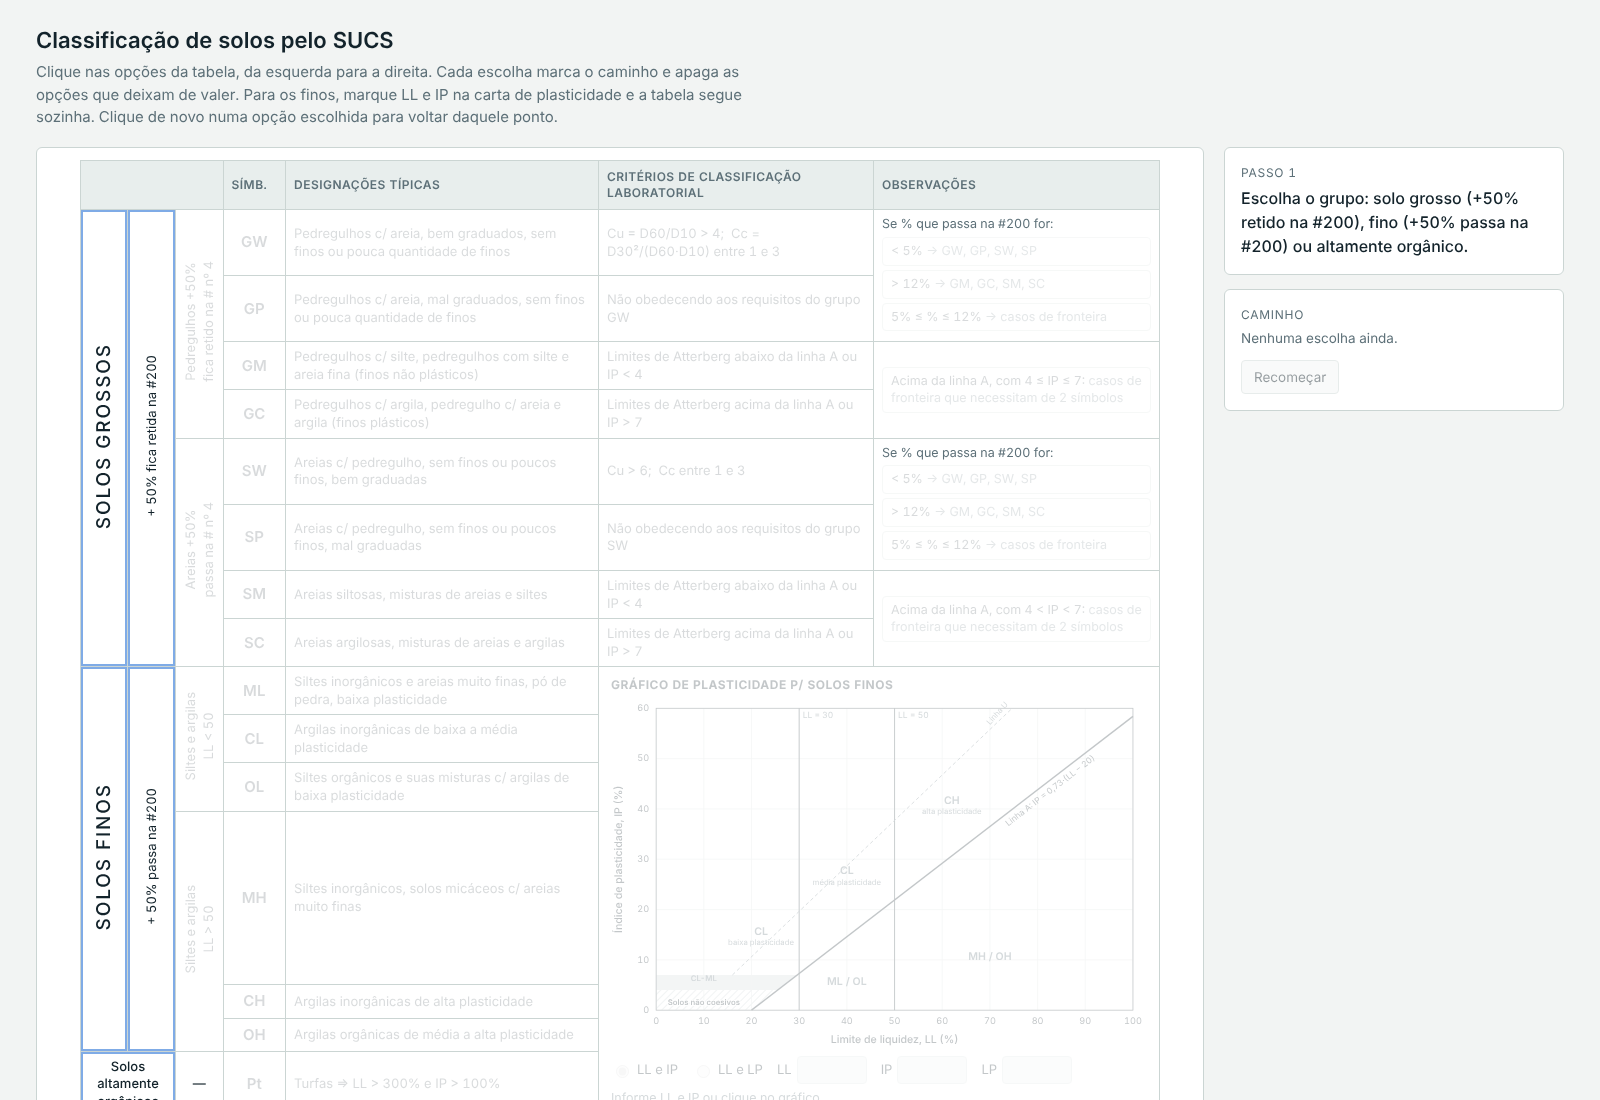
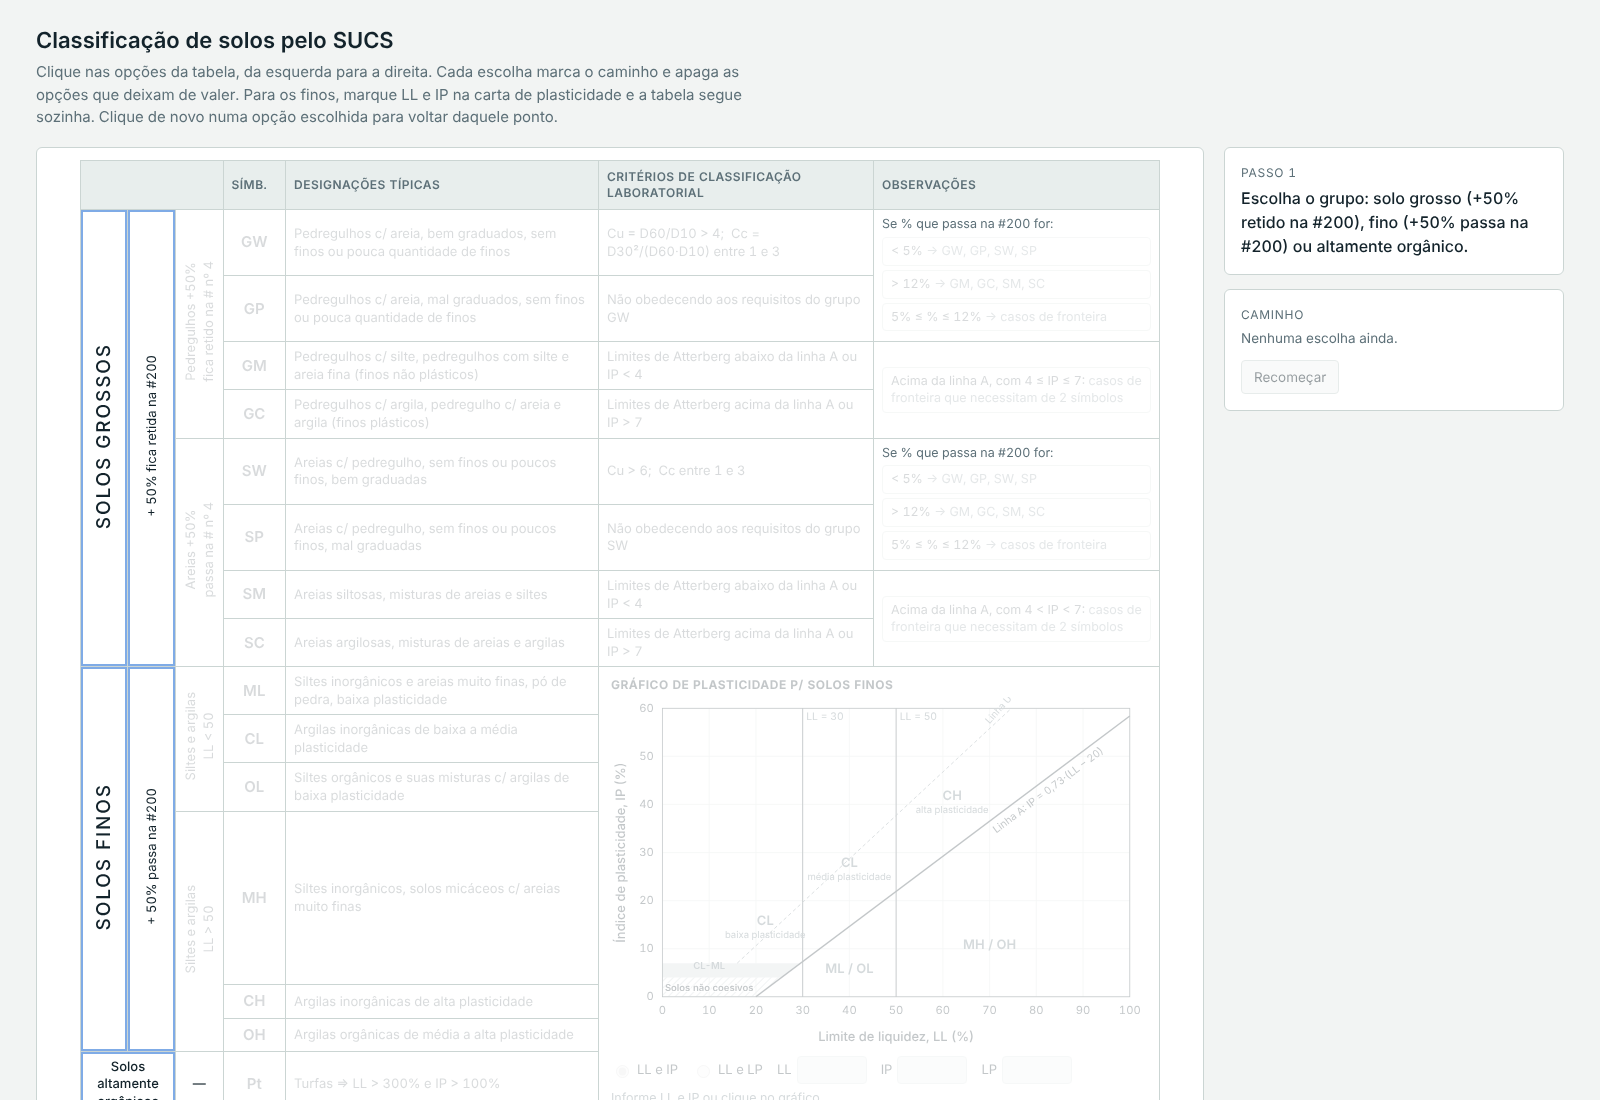
feat: modo passo a passo no celular e rótulos da carta legíveis em telas estreitas
Claude-Session: https://claude.ai/code/session_016NX9F89Pu4r2U4XAzsXL86

diff --git a/index.html b/index.html
@@ -85,6 +85,34 @@ ol.trail li{margin:3px 0}
 .actions{display:flex;gap:8px;margin-top:12px}
 #chip{position:fixed;right:16px;bottom:calc(16px + env(safe-area-inset-bottom,0px));z-index:10;display:none;font:inherit;font-weight:600;padding:9px 14px;border-radius:999px;border:0;background:var(--accent);color:#fff;box-shadow:0 4px 14px rgba(0,0,0,.2);cursor:pointer}
 #path .ln{fill:none;stroke:var(--accent);stroke-width:3;stroke-linecap:round;stroke-linejoin:round;opacity:.7}
+#mob{display:none}
+body.narrow #mob{display:block;order:-2}
+body.narrow .tw,body.narrow #stepcard{display:none}
+body.narrow #result.empty{display:none}
+body.narrow .side{position:static}
+.mtrail{list-style:none;margin:0 0 6px;padding:0}
+.mtrail li{position:relative;padding-left:34px;margin:0 0 8px}
+.mtrail li:before{content:"";position:absolute;left:11px;top:24px;bottom:-10px;width:2px;background:var(--accent);opacity:.45}
+.mtrail li:last-child:before{display:none}
+#mq.q,#mopts.q{position:relative;padding-left:34px}
+#mq.q:before{content:attr(data-k);position:absolute;left:0;top:0;width:24px;height:24px;border-radius:50%;color:var(--accent);box-shadow:inset 0 0 0 2px var(--accent);font-size:12px;font-weight:600;line-height:24px;text-align:center}
+.lead .ln{display:none}
+body.narrow .lead .lw{display:none}
+body.narrow .lead .ln{display:inline}
+.mtrail .num{position:absolute;left:0;top:7px;width:24px;height:24px;border-radius:50%;background:var(--accent);color:#fff;font-size:12px;font-weight:600;line-height:24px;text-align:center}
+.mt{display:block;width:100%;text-align:left;font:inherit;color:var(--ink);background:color-mix(in srgb,var(--accent) 10%,var(--panel));border:1px solid color-mix(in srgb,var(--accent) 45%,transparent);border-radius:6px;padding:6px 10px}
+.mt b{display:block;font-size:14.5px}
+.mt small{display:block;color:var(--mute);font-size:12.5px;line-height:1.35}
+#mq{margin:0 0 8px}
+.mopts{display:flex;flex-direction:column;gap:8px}
+.mo{display:block;width:100%;text-align:left;font:inherit;color:var(--ink);background:var(--panel);border:1px solid var(--line);border-radius:6px;padding:10px 12px;cursor:pointer}
+.mo b{display:block;font-size:15px}
+.mo small{display:block;color:var(--mute);font-size:13px;line-height:1.35}
+.mo.alt{opacity:1}
+#mchart{margin-top:12px}
+#mchart:empty,#mchart.hide{display:none}
+#mcalc .calc{margin-top:12px}
+.mdone{display:inline-block;margin-top:4px;color:var(--accent)}
 #path .dot circle{fill:var(--accent);stroke:var(--panel);stroke-width:2.5}
 #path .dot text{fill:#fff;font:600 11px "IBM Plex Sans",system-ui,sans-serif;text-anchor:middle;dominant-baseline:central}
 #path .ring{fill:none;stroke:var(--accent);stroke-width:2.5}
@@ -95,8 +123,16 @@ ol.trail li{margin:3px 0}
 <body>
 <main>
 <h1>Classificação de solos pelo SUCS</h1>
-<p class="lead">Clique nas opções da tabela, da esquerda para a direita. Cada escolha marca o caminho e apaga as opções que deixam de valer. Para os finos, marque LL e IP na carta de plasticidade e a tabela segue sozinha. Clique de novo numa opção escolhida para voltar daquele ponto.</p>
+<p class="lead"><span class="ln">Responda um passo por vez. Para os finos, marque LL e IP na carta de plasticidade. Toque numa etapa já escolhida para voltar dela.</span><span class="lw">Clique nas opções da tabela, da esquerda para a direita. Cada escolha marca o caminho e apaga as opções que deixam de valer. Para os finos, marque LL e IP na carta de plasticidade e a tabela segue sozinha. Clique de novo numa opção escolhida para voltar daquele ponto.</span></p>
 <div class="layout">
+  <div class="card" id="mob">
+    <p class="step" id="mstep"></p>
+    <ol class="mtrail" id="mtrail"></ol>
+    <p class="prompt" id="mq"></p>
+    <div class="mopts" id="mopts"></div>
+    <div id="mcalc"></div>
+    <div id="mchart"></div>
+  </div>
   <div class="card tw"><div class="stage" id="stage">
     <table id="tab" aria-label="Tabela de classificação SUCS"></table>
     <svg id="path" aria-hidden="true"></svg>
@@ -177,37 +213,43 @@ document.querySelectorAll("[data-a]").forEach(e=>{e.removeAttribute("data-a");e.
 document.querySelectorAll("td[data-n]").forEach(e=>{if(!e.hasAttribute("tabindex")){e.tabIndex=-1}});
 
 /* ---------- carta de plasticidade (do app Carta de Plasticidade de Casagrande) ---------- */
-$("chartcell").innerHTML=`<div class="ct"><b>Gráfico de plasticidade p/ solos finos</b><small id="ctx"></small></div>
+$("chartcell").innerHTML=`<div id="chartbox"><div class="ct"><b>Gráfico de plasticidade p/ solos finos</b><small id="ctx"></small></div>
 <svg id="chart" viewBox="0 0 760 500" role="img" aria-label="Carta de plasticidade"></svg>
 <div class="ci"><span><label><input type="radio" name="mode" value="ip" checked> LL e IP</label></span><span><label><input type="radio" name="mode" value="lp"> LL e LP</label></span>
 <label>LL <input id="ll" type="number" min="0" max="120" step="0.1"></label>
 <label>IP <input id="ip" type="number" min="0" max="80" step="0.1"></label>
 <label>LP <input id="lp" type="number" min="0" max="120" step="0.1" disabled></label></div>
-<p class="ro" id="ro">Informe LL e IP ou clique no gráfico.</p>`;
-const W=760,H=500,m={l:64,r:20,t:16,b:56},XM=100,YM=60;
+<p class="ro" id="ro">Informe LL e IP ou clique no gráfico.</p></div>`;
+const W=760,H=500,XM=100,YM=60;
+let K=1,m={l:64,r:20,t:16,b:56};
 const X=v=>m.l+v/XM*(W-m.l-m.r), Y=v=>H-m.b-v/YM*(H-m.t-m.b);
 const A=ll=>0.73*(ll-20), U=ll=>0.9*(ll-8);
 const svg=$("chart");
-(function base(){
+function base(){
+  m={l:24+40*K,r:20*K,t:16,b:K>1?26+40*K:56};
   let s=`<defs><pattern id="hz" width="7" height="7" patternUnits="userSpaceOnUse" patternTransform="rotate(45)"><line x1="0" y1="0" x2="0" y2="7" stroke="var(--hatch)" stroke-width="2"/></pattern></defs>`;
   s+=`<polygon points="${X(0)},${Y(0)} ${X(20)},${Y(0)} ${X(25.48)},${Y(4)} ${X(0)},${Y(4)}" fill="url(#hz)" opacity=".55"/>`;
   s+=`<polygon points="${X(0)},${Y(4)} ${X(25.48)},${Y(4)} ${X(29.59)},${Y(7)} ${X(0)},${Y(7)}" fill="var(--hatch)" opacity=".35"/>`;
-  for(let v=0;v<=XM;v+=10){s+=`<line x1="${X(v)}" x2="${X(v)}" y1="${Y(0)}" y2="${Y(YM)}" stroke="var(--grid)"/><text x="${X(v)}" y="${Y(0)+20}" text-anchor="middle" font-size="13">${v}</text>`}
-  for(let v=0;v<=YM;v+=10){s+=`<line y1="${Y(v)}" y2="${Y(v)}" x1="${X(0)}" x2="${X(XM)}" stroke="var(--grid)"/><text x="${X(0)-10}" y="${Y(v)+4}" text-anchor="end" font-size="13">${v}</text>`}
+  for(let v=0;v<=XM;v+=10){s+=`<line x1="${X(v)}" x2="${X(v)}" y1="${Y(0)}" y2="${Y(YM)}" stroke="var(--grid)"/><text x="${X(v)}" y="${Y(0)+20*K}" text-anchor="middle" font-size="${13*K}">${v}</text>`}
+  for(let v=0;v<=YM;v+=10){s+=`<line y1="${Y(v)}" y2="${Y(v)}" x1="${X(0)}" x2="${X(XM)}" stroke="var(--grid)"/><text x="${X(0)-10*K}" y="${Y(v)+4*K}" text-anchor="end" font-size="${13*K}">${v}</text>`}
   s+=`<rect x="${X(0)}" y="${Y(YM)}" width="${X(XM)-X(0)}" height="${Y(0)-Y(YM)}" fill="none" stroke="var(--ink)"/>`;
-  for(const v of [30,50])s+=`<line x1="${X(v)}" x2="${X(v)}" y1="${Y(0)}" y2="${Y(YM)}" stroke="var(--ink)" stroke-width="1.2"/><text x="${X(v)+5}" y="${Y(YM)+14}" font-size="12" style="fill:var(--mute)">LL = ${v}</text>`;
+  for(const v of [30,50])s+=`<line x1="${X(v)}" x2="${X(v)}" y1="${Y(0)}" y2="${Y(YM)}" stroke="var(--ink)" stroke-width="1.2"/><text x="${X(v)+5}" y="${Y(YM)+14*K}" font-size="${12*K}" style="fill:var(--mute)">LL = ${v}</text>`;
   s+=`<line x1="${X(20)}" y1="${Y(0)}" x2="${X(XM)}" y2="${Y(A(XM))}" stroke="var(--ink)" stroke-width="2"/>`;
   s+=`<line x1="${X(16)}" y1="${Y(7)}" x2="${X(8+YM/.9)}" y2="${Y(YM)}" stroke="var(--mute)" stroke-width="1.2" stroke-dasharray="5 4"/>`;
-  s+=`<text transform="translate(${X(83)},${Y(A(83))+20}) rotate(${-Math.atan(0.73*(Y(0)-Y(YM))/YM/((X(XM)-X(0))/XM))*180/Math.PI})" font-size="12" text-anchor="middle">Linha A: IP = 0,73·(LL − 20)</text>`;
-  s+=`<text x="${X(70)}" y="${Y(U(70))-6}" font-size="11" style="fill:var(--mute)" transform="rotate(-48 ${X(70)} ${Y(U(70))-6})">Linha U</text>`;
+  s+=`<text transform="translate(${X(83)},${Y(A(83))+20*K}) rotate(${-Math.atan(0.73*(Y(0)-Y(YM))/YM/((X(XM)-X(0))/XM))*180/Math.PI})" font-size="${12*K}" text-anchor="middle">Linha A: IP = 0,73·(LL − 20)</text>`;
+  s+=`<text x="${X(70)}" y="${Y(U(70))-6}" font-size="${11*K}" style="fill:var(--mute)" transform="rotate(-48 ${X(70)} ${Y(U(70))-6})">Linha U</text>`;
   const z=[[22,15,"CL","baixa plasticidade"],[40,27,"CL","média plasticidade"],[62,41,"CH","alta plasticidade"],[40,5,"ML / OL",""],[70,10,"MH / OH",""],[10,5.7,"CL-ML",""]];
-  for(const [l,i,t,d] of z)s+=`<text x="${X(l)}" y="${Y(i)}" font-size="${t==="CL-ML"?11:15}" font-weight="600" text-anchor="middle" style="fill:var(--mute)">${t}</text>`+(d?`<text x="${X(l)}" y="${Y(i)+15}" font-size="11" text-anchor="middle" style="fill:var(--mute)">${d}</text>`:"");
-  s+=`<text x="${X(10)}" y="${Y(1.1)}" font-size="11" font-weight="600" text-anchor="middle" style="paint-order:stroke;stroke:var(--panel);stroke-width:3px;fill:var(--ink)">Solos não coesivos</text>`;
-  s+=`<text x="${(X(0)+X(XM))/2}" y="${H-10}" text-anchor="middle" font-size="15" font-weight="500">Limite de liquidez, LL (%)</text>`;
-  s+=`<text transform="translate(16 ${(Y(0)+Y(YM))/2}) rotate(-90)" text-anchor="middle" font-size="15" font-weight="500">Índice de plasticidade, IP (%)</text>`;
-  s+=`<g id="pt" style="display:none"><line id="gx" stroke="var(--accent)" stroke-dasharray="4 4"/><line id="gy" stroke="var(--accent)" stroke-dasharray="4 4"/><circle id="ptc" r="8" fill="var(--accent)" stroke="var(--panel)" stroke-width="2.5"/></g>`;
+  for(const [l,i,t,d] of z)s+=`<text x="${X(l)}" y="${Y(i)}" font-size="${(t==="CL-ML"?11:15)*K}" font-weight="600" text-anchor="middle" style="fill:var(--mute)">${t}</text>`+(d?`<text x="${X(l)}" y="${Y(i)+15*K}" font-size="${11*K}" text-anchor="middle" style="fill:var(--mute)">${d}</text>`:"");
+  s+=`<text x="${X(10)}" y="${Y(1.1)}" font-size="${11*Math.min(K,1.35)}" font-weight="600" text-anchor="middle" style="paint-order:stroke;stroke:var(--panel);stroke-width:3px;fill:var(--ink)">Solos não coesivos</text>`;
+  s+=`<text x="${(X(0)+X(XM))/2}" y="${H-10*K}" text-anchor="middle" font-size="${15*K}" font-weight="500">Limite de liquidez, LL (%)</text>`;
+  s+=`<text transform="translate(${16*K} ${(Y(0)+Y(YM))/2}) rotate(-90)" text-anchor="middle" font-size="${15*K}" font-weight="500">Índice de plasticidade, IP (%)</text>`;
+  s+=`<g id="pt" style="display:none"><line id="gx" stroke="var(--accent)" stroke-dasharray="4 4"/><line id="gy" stroke="var(--accent)" stroke-dasharray="4 4"/><circle id="ptc" r="${8*Math.sqrt(K)}" fill="var(--accent)" stroke="var(--panel)" stroke-width="2.5"/></g>`;
   svg.innerHTML=s;
-})();
+}
+/* em telas estreitas o SVG encolhe: K aumenta as fontes para continuarem legíveis */
+function scale(){const w=svg.clientWidth||W;return Math.min(1.8,Math.max(1,(9.5*W)/(11*w)));}
+K=scale();base();
+new ResizeObserver(()=>{const k=scale();if(Math.abs(k-K)>.05){K=k;base();drawPoint();render();}}).observe(svg);
 function chartSym(LL,IP){
   const a=A(LL),acima=IP>=a;
   if(acima&&IP>=4&&IP<=7)return "CL-ML";
@@ -380,8 +422,46 @@ const PROMPT={
   fn:"Escolha o símbolo na coluna Símb.",
   pt:"Confirme a turfa clicando em Pt."
 };
+function lab(k){
+  const {f,v,c}=parse(k);
+  switch(f){
+    case"g":return{G:["Solo grosso","+50% fica retido na peneira nº 200"],F:["Solo fino","+50% passa na peneira nº 200"],Pt:["Solo altamente orgânico","Turfas"]}[v];
+    case"fr":return v==="G"?["Pedregulho","+50% da fração grossa fica retida na nº 4"]:["Areia","+50% da fração grossa passa na nº 4"];
+    case"fi":return{lt5:["< 5% passa na #200","GW, GP, SW, SP"],gt12:["> 12% passa na #200","GM, GC, SM, SC"],512:["5% a 12% passa na #200","Caso de fronteira: símbolo duplo"]}[v];
+    case"gr":return v==="W"?[`${c}W · bem graduad${c==="G"?"o":"a"}`,`Cu ≥ ${c==="G"?4:6} e 1 ≤ Cc ≤ 3`]:[`${c}P · mal graduad${c==="G"?"o":"a"}`,`Não atende aos requisitos do grupo ${c}W`];
+    case"at":return{M:[`${c}M · finos siltosos`,"Atterberg abaixo da linha A ou IP < 4"],C:[`${c}C · finos argilosos`,"Atterberg acima da linha A ou IP > 7"],CM:[`${c}C-${c}M · fronteira`,"Acima da linha A, com 4 ≤ IP ≤ 7"]}[v];
+    case"ll":return v==="L"?["LL < 50","Siltes e argilas de baixa plasticidade"]:["LL > 50","Siltes e argilas de alta plasticidade"];
+    case"fn":return v==="CM"?["CL-ML","Faixa hachurada da carta (4 ≤ IP ≤ 7)"]:[v+c,DES[v+c]];
+    case"pt":return["Pt · turfa","LL > 300% e IP > 100%"];
+  }
+  return[k,""];
+}
+const MQ={g:"Qual é o grupo do solo?",fr:"Pedregulho ou areia?",fi:"Quanto passa na peneira nº 200?",gr:"A graduação atende aos critérios de Cu e Cc?",
+  at:"Como são os finos? Escolha pelo critério de Atterberg ou marque LL e IP na carta.",ll:"Marque LL e IP na carta, ou escolha a faixa de LL.",fn:"Qual é o símbolo?",pt:"Confirme a turfa."};
+function renderMob(cur,r){
+  if(!document.body.classList.contains("narrow"))return;
+  const q=seq(),li=[];let n=0;
+  const item=(k,[b,sm])=>`<li><span class="num">${++n}</span><button class="mt" data-n="${k}"><b>${b}</b><small>${sm}</small></button></li>`;
+  const pt=()=>`<li><span class="num">${++n}</span><div class="mt"><b>Carta: LL = ${fmt(s.pLL)}, IP = ${fmt(s.pIP)}</b><small>Ponto ${s.pIP>=A(s.pLL)?"acima":"abaixo"} da linha A</small></div></li>`;
+  for(const f of q){
+    const v=s[f];if(v==null)break;
+    if(f==="at"&&s.atc)li.push(pt());
+    const c=ctxOf(f),k=`${f}:${v}${c?"@"+c:""}`;li.push(item(k,lab(k)));
+    if(f==="ll"&&s.cht)li.push(pt());
+  }
+  $("mtrail").innerHTML=li.join("");
+  $("mstep").textContent=cur?`Passo ${q.indexOf(cur)+1}`:"Classificação concluída";
+  let pr=cur?MQ[cur]:"";
+  if(cur==="fn"&&s.fnAllow)pr=`Ponto ${s.pIP>=A(s.pLL)?"na região de IP < 4":"abaixo da linha A"}: inorgânico (${s.ll==="L"?"ML":"MH"}) ou orgânico (${s.ll==="L"?"OL":"OH"})? Razão LL seco em estufa / LL natural < 0,75 indica solo orgânico.`;
+  if(!cur&&r)pr=`Resultado: <b style="color:var(--accent)">${r.sym}</b> · <a href="#result" class="mdone">ver detalhes ↓</a>`;
+  $("mq").innerHTML=pr;
+  $("mq").dataset.k=cur?n+1:"";$("mq").classList.toggle("q",!!cur);$("mopts").classList.toggle("q",!!cur);
+  $("mopts").innerHTML=cur?options(cur).map(k=>{const[b,sm]=lab(k);return`<button class="mo" data-n="${k}"><b>${b}</b><small>${sm}</small></button>`}).join(""):"";
+  $("mchart").classList.toggle("hide",!chartOn());
+}
 function render(){
   const cur=current(),q=seq();
+  renderMob(cur,result());
   document.querySelectorAll("[data-n]").forEach(el=>{
     const k=el.dataset.n,sel=isSel(k),ok=clickable(k),{f}=parse(k);
     el.classList.toggle("sel",sel);
@@ -422,6 +502,7 @@ function render(){
   if(r&&/^O/.test(s.fn||""))h+=`<div class="note">Confirme o caráter orgânico pela razão LL seco em estufa / LL natural (&lt; 0,75), cor escura e odor.</div>`;
   h+=`<div class="actions"><button class="btn" id="rst" ${s.g?"":"disabled"}>Recomeçar</button></div>`;
   $("result").innerHTML=h;
+  $("result").classList.toggle("empty",!r);
   $("rst").onclick=()=>{reset();render();};
   $("chip").textContent=r?`Resultado: ${r.sym} ↑`:"";
   chipVis();
@@ -435,7 +516,7 @@ function calcCu(){
   if(!(d10>0&&d30>0&&d60>0)){$("cuout").textContent="Opcional: informe os diâmetros para calcular Cu e Cc.";$("cuapply").disabled=true;return;}
   const Cu=d60/d10,Cc=d30*d30/(d60*d10),lim=s.fr==="S"?6:4,w=Cu>=lim&&Cc>=1&&Cc<=3;
   s.cuPending={Cu,Cc,w};
-  $("cuout").innerHTML=`Cu = <b>${fmt(Cu)}</b> (${Cu>=lim?"≥":"<"} ${lim}) · Cc = <b>${fmt(Cc)}</b> (${Cc>=1&&Cc<=3?"entre 1 e 3":"fora de 1 a 3"})<br>${w?"Bem graduado":"Mal graduado"} → ${s.fr}${w?"W":"P"}`;
+  $("cuout").innerHTML=`Cu = <b>${fmt(Cu)}</b> (${Cu>=lim?"≥":"<"} ${lim}) · Cc = <b>${fmt(Cc)}</b> (${Cc>=1&&Cc<=3?"entre 1 e 3":"fora de 1 a 3"})<br>${w?"Bem":"Mal"} graduad${s.fr==="G"?"o":"a"} → ${s.fr}${w?"W":"P"}`;
   $("cuapply").disabled=false;
 }
 ["d10","d30","d60"].forEach(id=>$(id).addEventListener("input",calcCu));
@@ -489,7 +570,16 @@ new IntersectionObserver(es=>{sideVisible=es[0].isIntersecting;chipVis();}).obse
 function chipVis(){$("chip").style.display=result()&&!sideVisible?"block":"none";}
 $("chip").onclick=()=>$("result").scrollIntoView({behavior:"smooth",block:"center"});
 
-render();
+const NARROW=matchMedia("(max-width:700px)");
+function placeMode(){
+  const n=NARROW.matches;
+  document.body.classList.toggle("narrow",n);
+  (n?$("mchart"):$("chartcell")).appendChild($("chartbox"));
+  (n?$("mcalc"):$("stepcard")).appendChild($("calc"));
+  render();
+}
+NARROW.addEventListener("change",placeMode);
+placeMode();
 </script>
 </body>
 </html>

diff --git a/README.md b/README.md
@@ -55,9 +55,9 @@ Também é possível clicar direto em LL < 50 / LL > 50 e no símbolo, sem usar 
 
 ### No celular
 
-A tabela rola na horizontal e o resultado fica no topo. Um atalho no canto da tela leva ao resultado quando ele sai de vista.
+Em telas estreitas a tabela vira um passo a passo: uma pergunta por vez, com as escolhas anteriores numa lista numerada (toque numa delas para voltar dali). A carta de plasticidade aparece em largura total no passo dos finos.
 
-<img src="docs/screenshots/06-mobile-azul.png" alt="Versão para celular" width="320">
+<img src="docs/screenshots/06-celular.png" alt="Versão para celular, com o passo a passo" width="320">
 
 ## Recursos
 
@@ -67,6 +67,7 @@ A tabela rola na horizontal e o resultado fica no topo. Um atalho no canto da te
 - Carta de plasticidade de Casagrande interativa (LL e IP ou LL e LP, clique ou arraste)
 - A carta serve também para os finos dos solos grossos (GM, GC, SM, SC e fronteiras)
 - Calculadora de Cu e Cc
+- No celular, modo passo a passo com a carta em largura total
 - Painel de resultado com símbolo, nome do grupo, designação típica e critérios usados
 - Tema claro e escuro automático
 - Funciona offline (só a fonte vem da internet), sem dependências nem etapa de build

diff --git a/CHANGELOG.md b/CHANGELOG.md
@@ -1,5 +1,12 @@
 # Changelog
 
+## Não lançado
+
+- No celular (até 700 px): modo passo a passo no lugar da tabela, com a carta em largura total
+- Rótulos da carta de plasticidade maiores quando o gráfico fica estreito
+- Cor de destaque azul (rgb 21, 102, 209)
+- Concordância de gênero nos textos de graduação das areias
+
 ## 1.0.0 - 2026-11-18
 
 - Tabela de classificação SUCS clicável, com caminho numerado e opções descartadas apagadas
